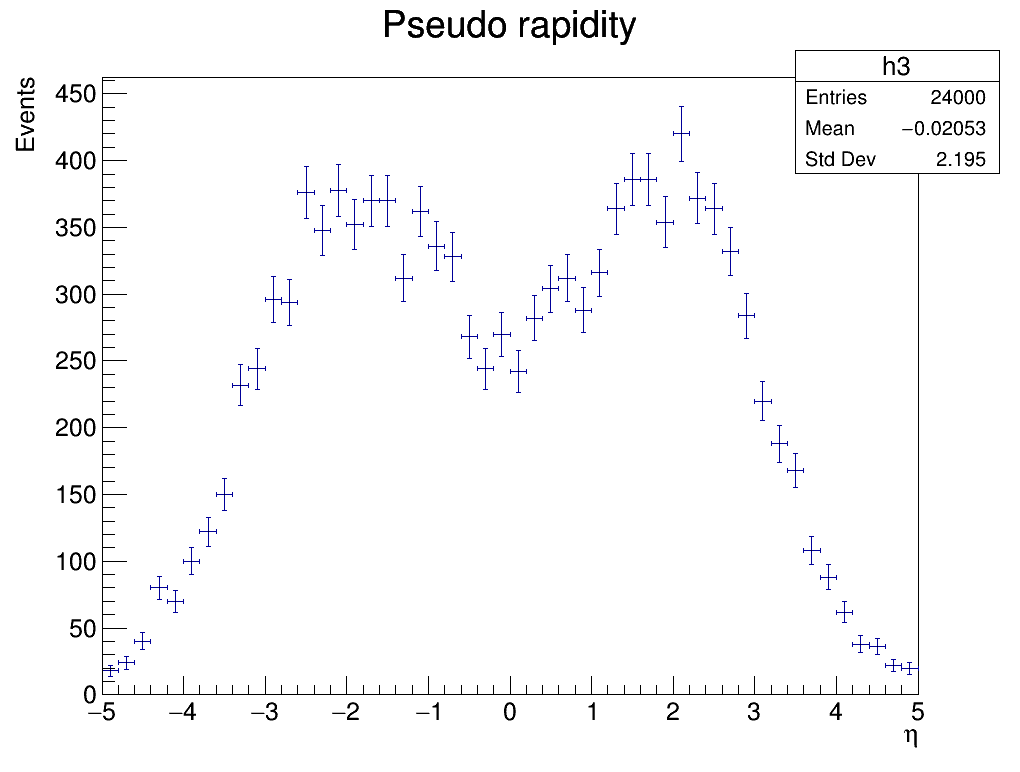
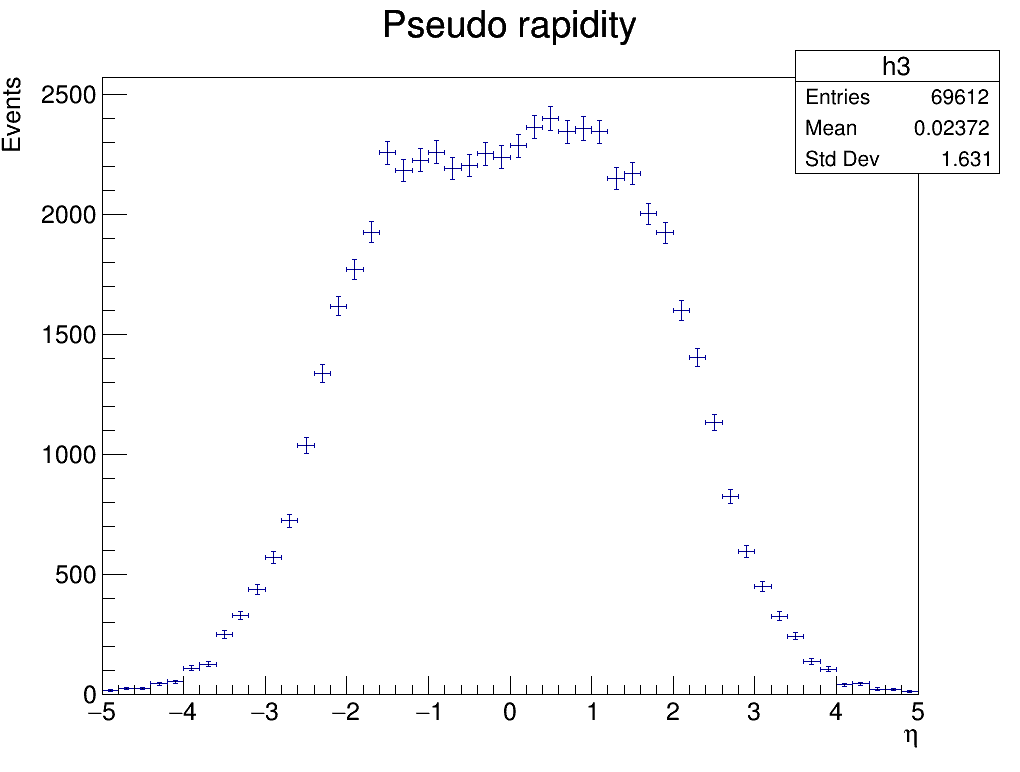
New code added

diff --git a/ExpPhysFinalProyect/SecondReport/Code/SecondReport.C b/ExpPhysFinalProyect/SecondReport/Code/SecondReport.C
@@ -26,25 +26,36 @@ class Open
     public:
         void OpenROOTFile()
         {
-            TString path = "/user/e/exphys02/F-sicaExperimental/ExpPhysFinalProyect/chargino_pair_production_electron_case/Data/output_simulated_data_two/Events/";
+            TChain *fChain = new TChain("LHEF"); 
 
-            TChain *fChain = new TChain("LHEF");
-	
-            fChain -> AddFile(path + "run_01" + "/" + "unweighted_events.root");
+            //Data
+            TString path_data = "/user/e/exphys02/F-sicaExperimental/ExpPhysFinalProyect/chargino_pair_production_electron_case/Data/output_simulated_data_two/Events/";
             
-	    for (unsigned int i = 0; i < 3; ++i) 
+	    //Background
+            //ttbar	    
+    	    TString path_background_ttbar = "/user/e/exphys02/F-sicaExperimental/ExpPhysFinalProyect/chargino_pair_production_electron_case/Background/ttbar/Events/";
+	    //WW
+            TString path_background_WW = "/user/e/exphys02/F-sicaExperimental/ExpPhysFinalProyect/chargino_pair_production_electron_case/Background/WW/Events/";
+           
+            fChain -> AddFile(path_data + "run_01" + "/" + "unweighted_events.root");
+            fChain -> AddFile(path_background_ttbar + "run_01" + "/" + "unweighted_events.root");	 
+            fChain -> AddFile(path_background_WW + "run_01" + "/" + "unweighted_events.root");	    
+
+            for (unsigned int i = 0; i < 3; ++i)
             {
-                fChain -> AddFile(path + "run_01_" + to_string(i) + "/" + "unweighted_events.root");
+             	fChain -> AddFile(path_data + "run_01_" + to_string(i) + "/" + "unweighted_events.root");
+		fChain -> AddFile(path_background_ttbar + "run_01_" + to_string(i) + "/" + "unweighted_events.root");
+		fChain -> AddFile(path_background_WW + "run_01_" + to_string(i) + "/" + "unweighted_events.root");
             }
 
-            unsigned int nentries = (unsigned int) fChain -> GetEntries();
+	    unsigned int nentries = (unsigned int) fChain -> GetEntries();
             cout << "Total number of entries to analyse: " << nentries << endl;
             cout << "" << endl;
   
-	    for(unsigned int i = 0; i < 1; ++i)
-            {
-                fChain -> Show(i);
-            }
+	    //for(unsigned int i = 0; i < 1; ++i)
+            //{
+                //fChain -> Show(i);
+            //}
             
             //Need this to correctly read TTree branches
             fChain -> SetMakeClass(1);
@@ -89,53 +100,53 @@ class Open
 	    TH1F *h5 = new TH1F("h5", "Chargino mass; M [GeV]; Events", 50, 0, 1000);            
 
             //Loop over events
-            for(Long64_t i = 0; i < fChain -> GetEntries(); ++i) 
-            {
-            	fChain -> GetEntry(i);
-		TLorentzVector chargino (0,0,0,0);
+            //for(Long64_t i = 0; i < fChain -> GetEntries(); ++i) 
+            //{
+            	//fChain -> GetEntry(i);
+		//TLorentzVector chargino (0,0,0,0);
                 //Loop over particles
-      		for (Int_t j = 0; j < Particle_; j++) 
-		{
-			h1 -> Fill(E[j]);
-			h2 -> Fill(Pt[j]);
-			h3 -> Fill(Eta[j]);
-			h4 -> Fill(Phi[j]);
-			if(std::abs(PID[j]) == 1000024)
-			{
-            			TLorentzVector temp;
-            			temp.SetPtEtaPhiE(Pt[j], Eta[j], Phi[j], E[j]);
-            			chargino += temp;
+      		//for (Int_t j = 0; j < Particle_; j++) 
+		//{
+			//h1 -> Fill(E[j]);
+			//h2 -> Fill(Pt[j]);
+			//h3 -> Fill(Eta[j]);
+			//h4 -> Fill(Phi[j]);
+			//if(std::abs(PID[j]) == 1000024)
+			//{
+            			//TLorentzVector temp;
+            			//temp.SetPtEtaPhiE(Pt[j], Eta[j], Phi[j], E[j]);
+            			//chargino += temp;
 				//cout << "M = " << chargino.M() << endl;
-				h5 -> Fill(chargino.M());
-      			}
-      		}            
-             }
+				//h5 -> Fill(chargino.M());
+      			//}
+      		//}            
+             //}
           
-         TCanvas *c1 = new TCanvas("c1", "c1", 1024, 800);
-	 h1 -> Draw("e1");
-         c1 -> Print("E.png");
+         //TCanvas *c1 = new TCanvas("c1", "c1", 1024, 800);
+	 //h1 -> Draw("e1");
+         //c1 -> Print("E.png");
 	 
-         TCanvas *c2 = new TCanvas("c2", "c2", 1024, 800);
-         h2 -> Draw("e1");
-       	 c2 -> Print("Pt.png");
+         //TCanvas *c2 = new TCanvas("c2", "c2", 1024, 800);
+         //h2 -> Draw("e1");
+       	 //c2 -> Print("Pt.png");
 
-         TCanvas *c3 = new TCanvas("c3", "c3", 1024, 800);         
-         h3 -> Draw("e1");
-       	 c3 -> Print("Eta.png");
+         //TCanvas *c3 = new TCanvas("c3", "c3", 1024, 800);         
+         //h3 -> Draw("e1");
+       	 //c3 -> Print("Eta.png");
          
-         TCanvas *c4 = new TCanvas("c4", "c4", 1024, 800);
-         h4 -> Draw("e1");
-       	 c4 -> Print("Phi.png");
+         //TCanvas *c4 = new TCanvas("c4", "c4", 1024, 800);
+         //h4 -> Draw("e1");
+       	 //c4 -> Print("Phi.png");
 	
-         TCanvas *c5 = new TCanvas("c5", "c5", 1024, 800);
-         h5 -> Draw("e1");
-         c5 -> Print("Chargino_mass.png");
+         //TCanvas *c5 = new TCanvas("c5", "c5", 1024, 800);
+         //h5 -> Draw("e1");
+         //c5 -> Print("Chargino_mass.png");
 
        
 	}
 };
 
-void FirstReport()
+void SecondReport()
 {
     Open *obj1 = new Open();
     obj1 -> OpenROOTFile();
